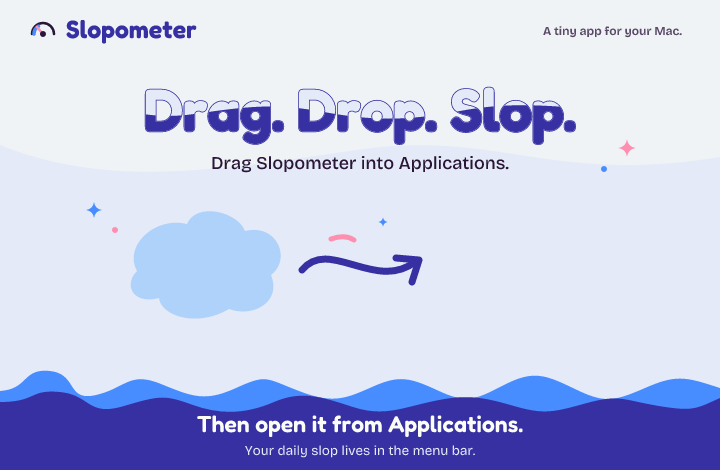
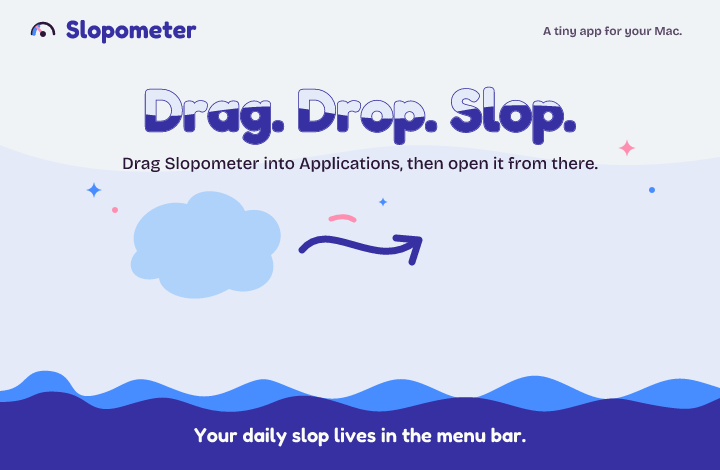
fix(packaging): keep the installer instructions visible when Finder bars are on (#29)
Finder keeps a disk image window's size, so always-on tab, path and status bars
cropped the bottom band that told people to open the app from Applications. The
instruction and icons now sit in the top ~330 points, the bottom is decoration,
and the background and volume-icon files sit below the window so showing hidden
files no longer covers the art.

diff --git a/scripts/build_dmg.py b/scripts/build_dmg.py
@@ -66,7 +66,14 @@ def main():
         "icon": str(ROOT / "packaging/Slopometer.icns"),
         "background": str(ROOT / "packaging/background.png"),
         "window_rect": ((100, 100), (720, 470)),
-        "icon_locations": {"Slopometer.app": (210, 270), "Applications": (510, 270)},
+        "icon_locations": {
+            "Slopometer.app": (210, 250),
+            "Applications": (510, 250),
+            # Below the window, so Finder's show-hidden-files mode does not drop
+            # these dot-files on top of the artwork.
+            ".background.tiff": (160, 620),
+            ".VolumeIcon.icns": (560, 620),
+        },
         "icon_size": 96,
         "text_size": 14,
         "label_pos": "bottom",

diff --git a/packaging/README.md b/packaging/README.md
@@ -6,7 +6,13 @@ artwork behind real Finder items, with no installer application or scripts run
 on the user's Mac.
 
 - Content area: 720 × 470 points, with toolbar, sidebar, path and status bars hidden.
-- Native icons: 96 points; app centered at (210, 270), Applications at (510, 270).
+- Safe area: everything essential, including the install instruction and both icon
+  labels, stays above y = 330. Finder keeps the window's outer size, so a person whose
+  Finder always shows the tab, path and status bars loses about 125 points of content
+  and sees the bottom cropped; the wave band below is decoration only.
+- Native icons: 96 points; app centered at (210, 250), Applications at (510, 250).
+- Hidden files: `.background.tiff` and `.VolumeIcon.icns` sit below the window at
+  y = 620, so showing hidden files in Finder adds a scrollbar instead of covering the art.
 - Native filename labels: 14 points, below the icons; not baked into the artwork.
 - Background: 720 × 470 and 1440 × 940 PNGs. dmgbuild combines these into a
   multi-resolution TIFF for Finder's standard and Retina rendering.

diff --git a/ROADMAP.md b/ROADMAP.md
@@ -219,6 +219,13 @@ immutable; the fixed name stays as a `no-cache` copy for older links. Release st
 the [updates guide](docs/logic/updates.md). The download check in the
 [desktop guide](testing/MANUAL%20TO-DO/desktop-and-appearance.md) is pending.
 
+DMG safe area (1.0.4): the install instruction and both icons now sit in the top
+~330 points of the disk image window, because Finder keeps the window's size and a
+person's always-on tab, path and status bars cropped the old bottom band ("Then open
+it from Applications"). The background and volume-icon files sit below the window,
+so Finder's show-hidden-files mode no longer drops them on the art. Finder checks
+are pending in the [desktop guide](testing/MANUAL%20TO-DO/desktop-and-appearance.md).
+
 Remove All Data (1.0.3): Settings › Uninstall › Remove All Data… deletes every Keychain
 token item, the cache, the widget snapshot, preferences, the login item, and notifications.
 It then lists the deleted tokens with links to revoke them on GitHub, and quits. SPEC and

diff --git a/testing/MANUAL TO-DO/desktop-and-appearance.md b/testing/MANUAL TO-DO/desktop-and-appearance.md
@@ -278,6 +278,16 @@ checks below were not separately reported and remain pending.
 - [ ] Keyboard and VoiceOver can select the real app and Applications link and
       complete installation without depending on text baked into the background.
 
+## DMG safe area and hidden files (1.0.4): pending
+
+- [ ] With Finder's tab, path and status bars all on (View menu), a fresh download of
+      the 1.0.4 DMG shows the title, "Drag Slopometer into Applications, then open it
+      from there.", both icons and their labels without scrolling; only the wave band
+      may be cropped.
+- [ ] With those bars off, the whole 720 × 470 background shows with no blank strip.
+- [ ] With hidden files shown (⌘⇧.), `.background.tiff` and `.VolumeIcon.icns` are
+      not drawn over the art; at most a scrollbar appears.
+
 ## Widget and background app: pending
 
 - [ ] App runs from the menu bar without a Dock icon; the window opens on demand.

diff --git a/docs/logic/updates.md b/docs/logic/updates.md
@@ -87,6 +87,13 @@ app from Applications. The background includes that instruction and points out
 the menu bar. Both app and mounted volume carry the gauge icon. The artwork is
 static; no installer code or Finder automation is involved.
 
+Since 1.0.4 the layout keeps the install instruction ("Drag Slopometer into
+Applications, then open it from there.") and both icons in the top ~330 points. A
+DMG fixes the window's outer size, so when someone's Finder always shows the tab,
+path and status bars, those bars crop the bottom of the art. The bottom band is
+now decoration only. The background and volume-icon files also sit below the
+window, so showing hidden files no longer covers the art.
+
 The editable vectors, bundled font licenses, generated standard/Retina assets,
 and layout contract live in [packaging](../../packaging/README.md). Regenerate
 artwork with `make packaging-art`; normal builds use the checked-in outputs.
